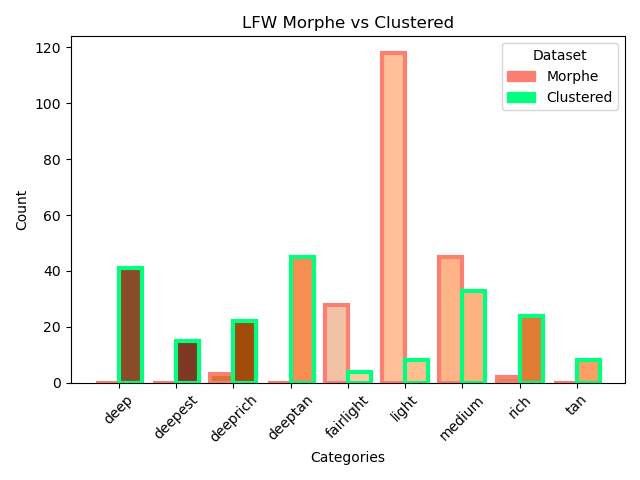
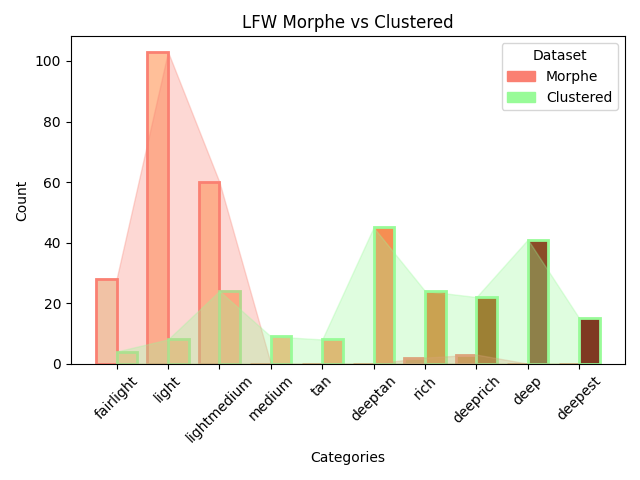
Updated plots

diff --git a/results_two.py b/results_two.py
@@ -4,6 +4,7 @@ import matplotlib.pyplot as plt
 from collections import Counter
 from itertools import product
 import matplotlib.patches as mpatches
+from scipy.interpolate import make_interp_spline
 
 
 fashion_data = pd.read_csv('./intermediate_files/closest_images_fashion.csv')
@@ -42,8 +43,10 @@ def plot_results(morphe_df: pd.DataFrame, clustered_df: pd.DataFrame, title: str
     clustered_counts = clustered_df.apply(pd.Series.value_counts).fillna(0).sum(axis=1)
 
     # Ensure both have the same categories
-    all_categories = sorted(set(morphe_counts.index).union(set(clustered_counts.index)))
+    all_categories = ['fairlight', 'light', 'lightmedium', 'medium', 'tan', 'deeptan', 'rich', 'deeprich', 'deep', 'deepest']
     morphe_counts = morphe_counts.reindex(all_categories, fill_value=0)
+    # sort from light to dark
+
     clustered_counts = clustered_counts.reindex(all_categories, fill_value=0)
 
     # Create side-by-side bar plot
@@ -51,16 +54,16 @@ def plot_results(morphe_df: pd.DataFrame, clustered_df: pd.DataFrame, title: str
     bar_width = 0.4  # Width of each bar
 
     morphe_color_map = {
-        'deep':(0.6392156863,0.3176470588,0.1411764706),
-        'deepest':(0.4196078431,0.1725490196,0.05098039216),
-        'deeprich':(0.8431372549,0.4549019608,0.2156862745),
-        'deeptan':(0.8823529412,0.5411764706,0.3529411765),
-        'fairlight':(0.9450980392,0.7607843137,0.6470588235),
-        'light':(1,0.7490196078,0.6),
-        'lightmedium':(1,0.7647058824,0.5960784314),
-        'medium':(0.9960784314 ,   0.7058823529  , 0.5254901961),
-        'rich':(0.8431372549,0.5176470588,0.3019607843),
-        'tan': (0.968627451,0.6549019608,0.4588235294)
+        'deep':(0.6392156863, 0.3176470588, 0.1411764706),
+        'deepest':(0.4196078431, 0.1725490196, 0.05098039216),
+        'deeprich':(0.8431372549, 0.4549019608, 0.2156862745),
+        'deeptan':(0.8823529412, 0.5411764706, 0.3529411765),
+        'fairlight':(0.9450980392, 0.7607843137, 0.6470588235),
+        'light':(1, 0.7490196078, 0.6),
+        'lightmedium':(1, 0.7647058824, 0.5960784314),
+        'medium':(0.9960784314, 0.7058823529, 0.5254901961),
+        'rich':(0.8431372549, 0.5176470588, 0.3019607843),
+        'tan': (0.968627451, 0.6549019608, 0.4588235294)
     }
 
     clusterd_color_map  = {
@@ -82,11 +85,17 @@ def plot_results(morphe_df: pd.DataFrame, clustered_df: pd.DataFrame, title: str
 
   
     lightform_patch = mpatches.Patch(color='salmon', label='Morphe')
-    clusters_patch = mpatches.Patch(color='springgreen', label='Clustered')
+    clusters_patch = mpatches.Patch(color='palegreen', label='Clustered')
     plt.legend(handles=[lightform_patch, clusters_patch], title = "Dataset")
 
-    plt.bar([pos - bar_width / 2 for pos in x], morphe_counts, bar_width, label='Morphe', color = [morphe_color_map[i] for i in morphe_counts.index],edgecolor= 'salmon', linewidth=3)
-    plt.bar([pos + bar_width / 2 for pos in x], clustered_counts, bar_width, label='Clustered', color = [clusterd_color_map[i] for i in clustered_counts.index], edgecolor = 'springgreen', linewidth=3)
+    #spline_lightform = make_interp_spline(x, morphe_counts, k=5)
+    #spline_clustered = make_interp_spline(x, clustered_counts, k=5)
+    plt.bar([pos - bar_width / 2 for pos in x], morphe_counts, bar_width, label='Morphe', color = [morphe_color_map[i] for i in morphe_counts.index],edgecolor= 'salmon', linewidth=2)
+    #plt.plot(x, spline_lightform(x), color='salmon', linewidth=2)
+    plt.bar([pos + bar_width / 2 for pos in x], clustered_counts, bar_width, label='Clustered', color = [clusterd_color_map[i] for i in clustered_counts.index], edgecolor = 'palegreen', linewidth=2)
+    #plt.plot(x, spline_clustered(x), color='springgreen', linewidth=2)
+    plt.fill_between(x, morphe_counts, color='salmon', alpha=0.3)
+    plt.fill_between(x, clustered_counts, color='palegreen', alpha=0.3)
 
     # Add labels, legend, and title
     plt.xticks(x, all_categories, rotation=45)
